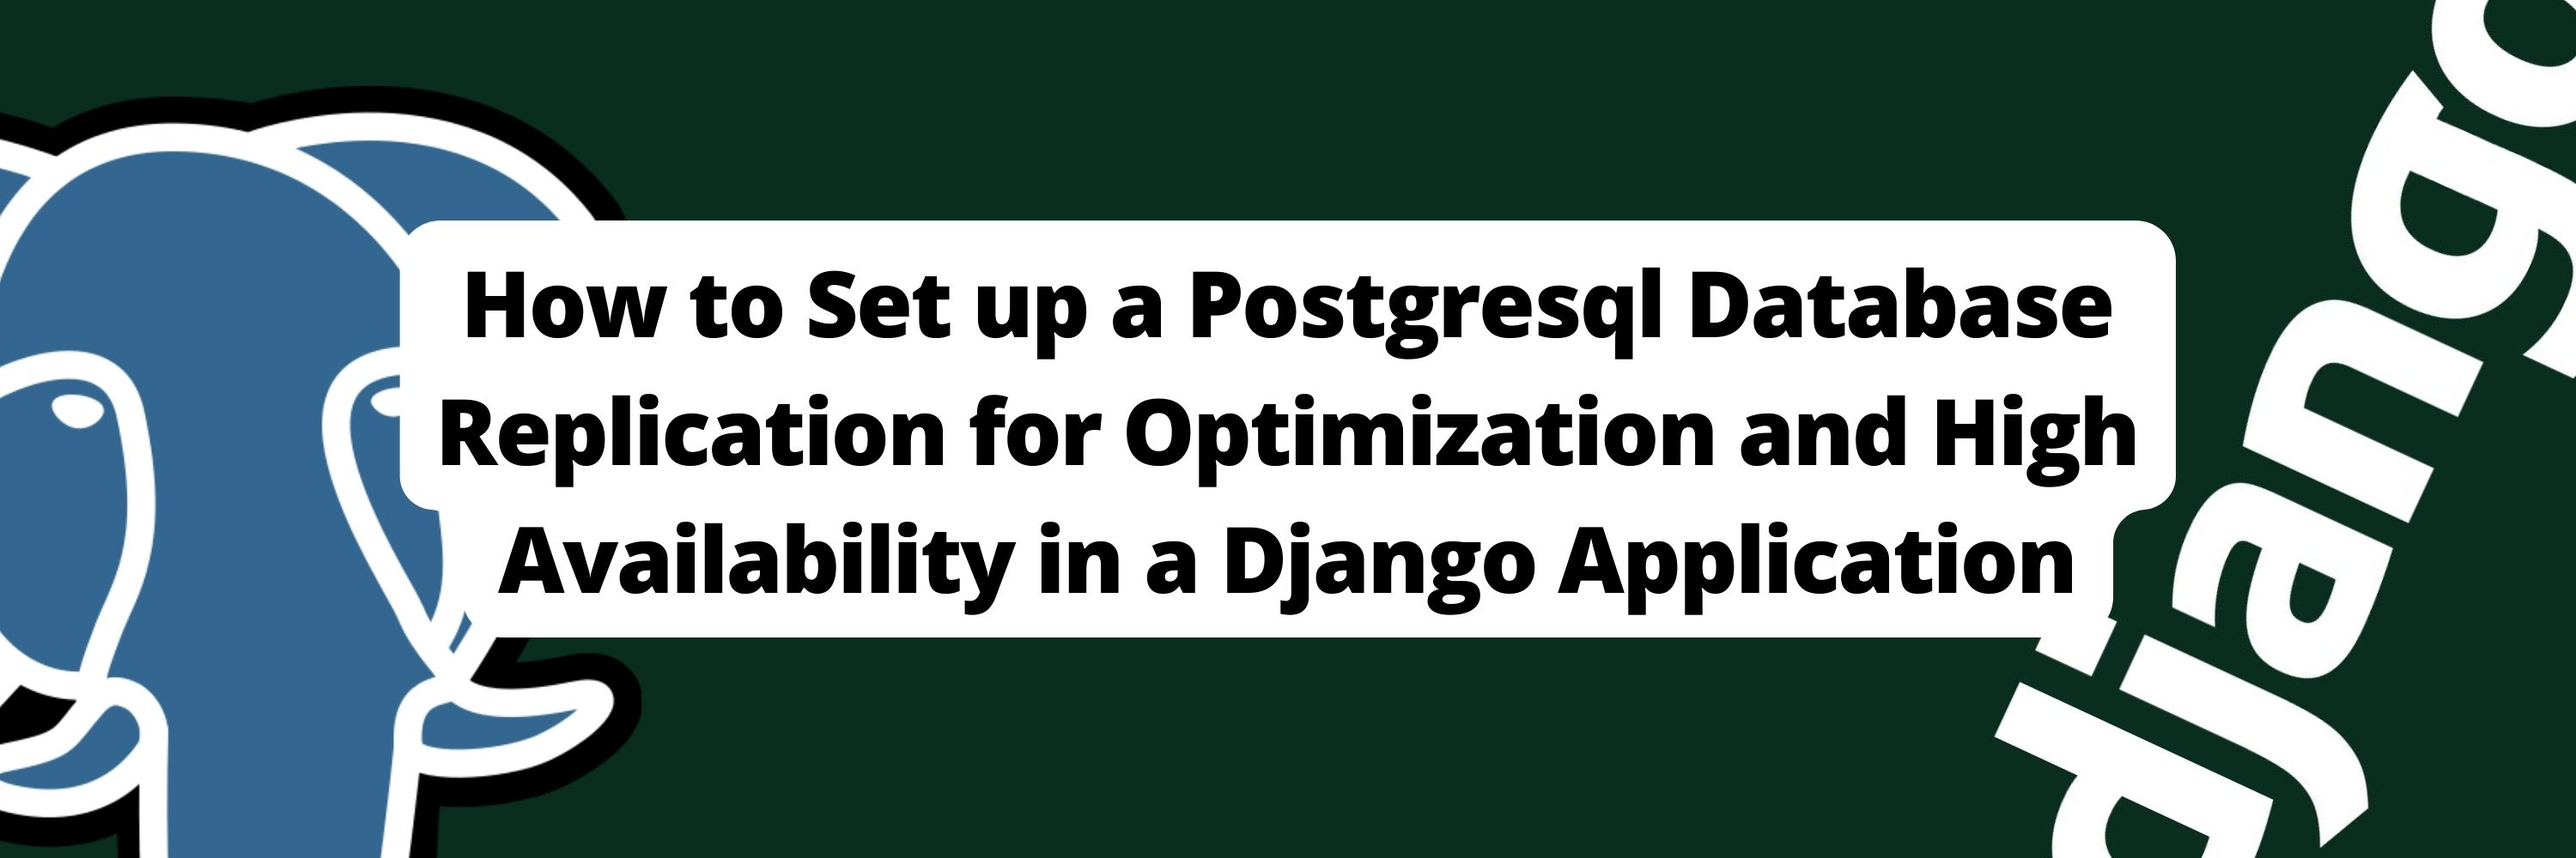
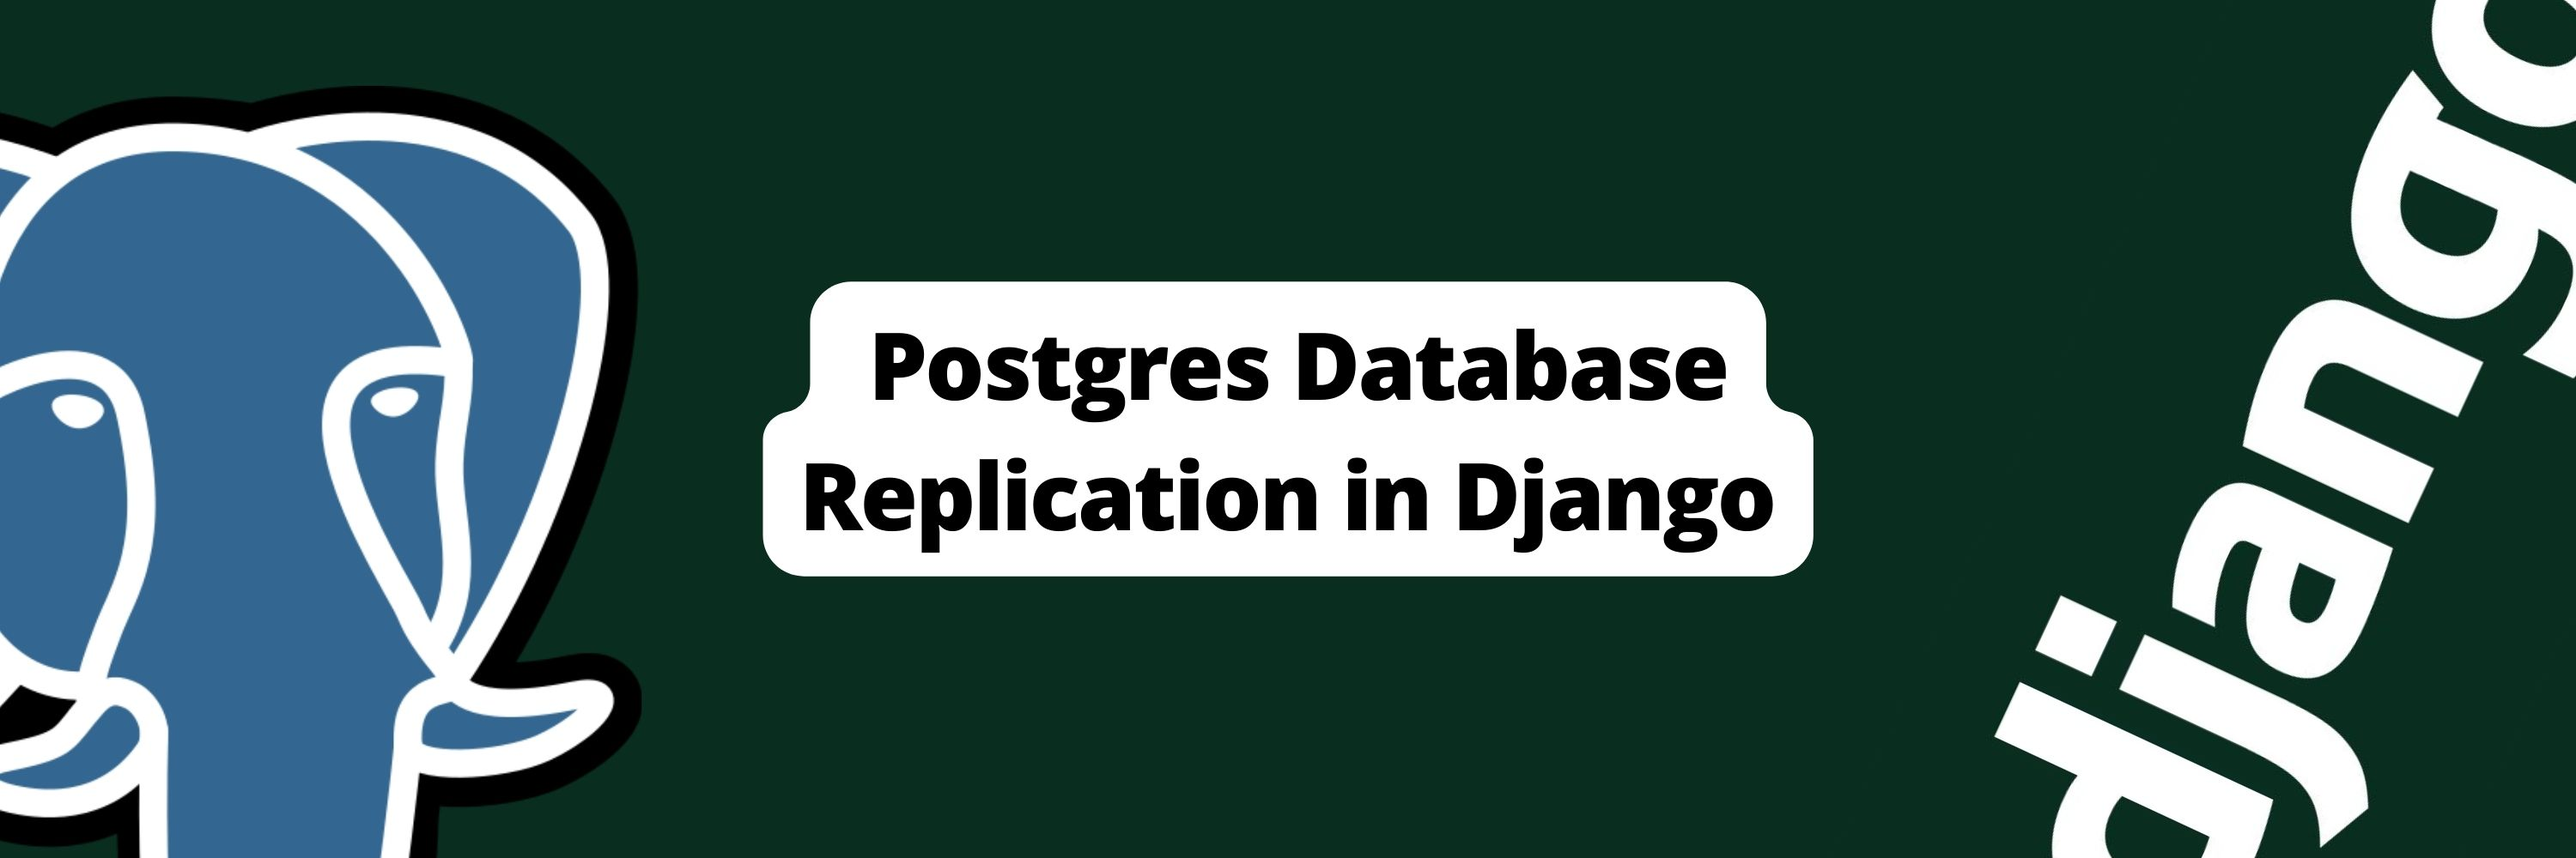
Changed title & header of blog 1

Changed region(s): [[0.155, 0.248, 0.868, 0.744]]

diff --git a/blog/_posts/2022-10-17-set-up-postgresql-db.md b/blog/_posts/2022-10-17-set-up-postgresql-db.md
@@ -1,5 +1,5 @@
 ---
-title: "How to Set up a Postgresql Database Replication for Optimization and High Availability in a Django Application"
+title: "Postgres Database Replication in Django"
 categories:
   - Tutorials
 toc: true
